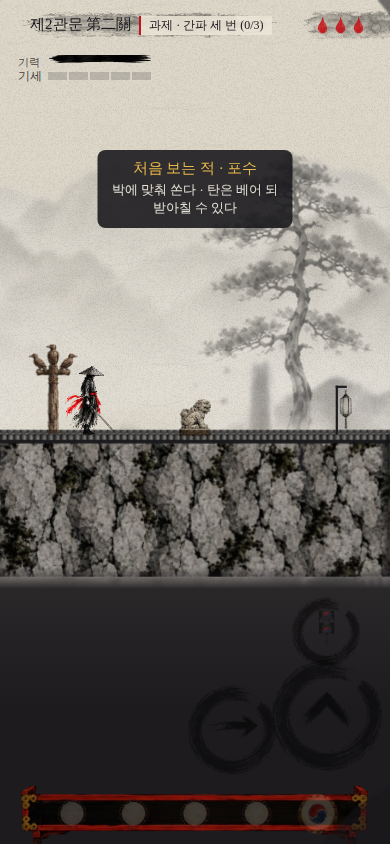
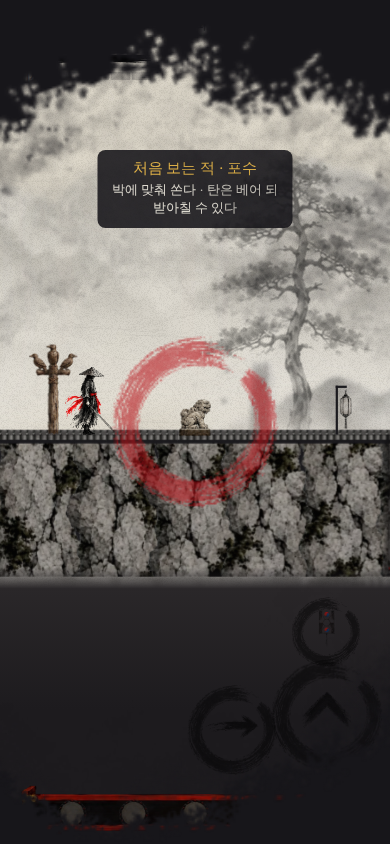
Painted scene change (dry-brush strokes, red 원상, ink blots soaking away), red 원상 for first-seen foes, ink-wash name labels, brush rings for hub spots, 절명 read in Korean
Claude-Session: https://claude.ai/code/session_01Rc1cVb1vkCQfdutHoe7fgf

diff --git a/js/game.js b/js/game.js
@@ -3382,7 +3382,11 @@ function render(rdt) {
   if (SPR.perkfx) for (const c of clones) { ctx.globalAlpha = .45 + .15 * Math.sin(performance.now() / 40); const cf = CF("clone"); if (cf && SPR[cf[0]]) { drawSprite(cf[0], cf[1], c.x, c.y, HERO_H * 1.15 / SPR[cf[0]].f[cf[1]].h, c.face < 0, .5, false, 1); ctx.globalAlpha = 1; continue; } drawSprite("perkfx", PF.clone, c.x, c.y, kOf("hero3", H3.idle, HERO_H * 1.08) * 1.1, c.face < 0, .5, false, 1); ctx.globalAlpha = 1; }
   drawVfx(pal, true, vw);   // effects that belong behind the body (the 납도 ink at the feet)
   drawPet(pal); drawAmmo();
-  for (const e of enemies) if (e.alive && e.introUntil > songPos) { const k = (e.introUntil - songPos) / 2.5, r = Math.max(e.w, e.h) * .75 + 6 + Math.sin(songPos * 9) * 2; ctx.globalAlpha = Math.min(1, k * 2); ctx.strokeStyle = SEAL; ctx.lineWidth = 2; ctx.setLineDash([5, 4]); ctx.beginPath(); ctx.arc(e.x + e.w / 2, e.y + e.h / 2, r, 0, 6.283); ctx.stroke(); ctx.setLineDash([]); ctx.globalAlpha = 1; }   // 처음 보는 적: a dashed red ring
+  { const rr = redRing(); for (const e of enemies) if (e.alive && e.introUntil > songPos) { const k = (e.introUntil - songPos) / 2.5, r = Math.max(e.w, e.h) * .8 + 8, cx = e.x + e.w / 2, cy = e.y + e.h / 2, draw = Math.min(1, (1 - k) * 4);   // 처음 보는 적: a red 원상 brushed round it
+    ctx.globalAlpha = Math.min(1, k * 2) * .9;
+    if (rr) { ctx.save(); ctx.translate(cx, cy); ctx.rotate(songPos * .6); ctx.beginPath(); ctx.moveTo(0, 0); ctx.arc(0, 0, r * 1.2, -1.8, -1.8 + 6.283 * draw); ctx.closePath(); ctx.clip(); ctx.drawImage(rr, -r, -r, r * 2, r * 2); ctx.restore(); }
+    else { ctx.strokeStyle = SEAL; ctx.lineWidth = 2; ctx.beginPath(); ctx.arc(cx, cy, r, 0, 6.283); ctx.stroke(); }
+    ctx.globalAlpha = 1; } }
   if (P && (state === "play" || state === "pause" || state === "result" || state === "dead")) drawPlayer(pal);
   drawHubLabels(pal);   // the names sit above every figure
   for (const p of parts) { // round drops of ink, stretched a little along their flight — never square specks
@@ -3468,6 +3472,7 @@ function render(rdt) {
     if (sf) { // 絶命 in red brush, written down the screen; lands large and settles
       const k = Math.min(1, deathT / .12), sw = Math.min(W * .22, 180) * (1.2 - .2 * k), sh = sw * sf.h / sf.w;
       ctx.drawImage(SPR.roguea.img, sf.x, sf.y, sf.w, sf.h, W / 2 - sw / 2, H / 2 - sh / 2 - 6, sw, sh);
+      ctx.font = `400 17px "Song Myung", serif`; ctx.fillText("절 명", W / 2, H / 2 + sh / 2 + 10);   // read aloud under the brush
     } else { ctx.font = `400 ${Math.min(72, W / 8)}px "Song Myung", serif`; ctx.fillText("절명", W / 2, H / 2 - 12); }
     if (mode !== "tutorial") { ctx.font = `600 13px ${BODY_FONT}`; ctx.fillText(run.breath > 0 ? `남은 숨 ${run.breath}` : "숨이 다했다", W / 2, H - 92); }
     ctx.textAlign = "left"; ctx.globalAlpha = 1;
@@ -4644,56 +4649,54 @@ function drawHubLabels(pal) { // the names of the stations, painted on small boa
       if (near) { ctx.fillStyle = "#9a1424"; ctx.beginPath(); ctx.moveTo(x - 6, by + h / 2 + 4); ctx.lineTo(x + 6, by + h / 2 + 4); ctx.lineTo(x, by + h / 2 + 11); ctx.fill(); } } }
   for (const st of LV.stations || []) { const x = st.tx * T + 16, y = (st.ty || 12) * T - Math.max(st.h, 44) - 10, near = hubNear && hubNear.st === st; if (LV.hub) continue;
     ctx.font = `400 ${near ? 15 : 12}px "Song Myung", serif`; const w = ctx.measureText(st.name).width + 14;
-    ctx.fillStyle = near ? "rgba(195,22,28,.92)" : "rgba(23,22,26,.72)"; ctx.fillRect(x - w / 2, y - 10, w, 20); ctx.fillStyle = "#f3ede0"; ctx.fillText(st.name, x, y + 1); }
+    const wf = SPR.ui && SPR.ui.f[5]; if (wf) { for (let i = 0; i < 2; i++) ctx.drawImage(SPR.ui.img, wf.x, wf.y, wf.w, wf.h, x - w / 2 - 12 + i * 3, y - 15 + i, w + 24, 30); ctx.fillStyle = near ? SEAL : "#17161a"; }   // the name on a wash of ink, red when you can speak
+    else { ctx.fillStyle = near ? "rgba(195,22,28,.92)" : "rgba(23,22,26,.72)"; ctx.fillRect(x - w / 2, y - 10, w, 20); ctx.fillStyle = "#f3ede0"; }
+    ctx.fillText(st.name, x, y + 1); }
   const dk = hubDeco(); if (LV.hub) for (let k = 0; k < HUB_SLOTS.length; k++) if (!dk.slots[k]) { const x = HUB_SLOTS[k].tx * T + 16, y = HUB_SLOTS[k].ty * T - 4, near = hubNear && hubNear.slot === k;
-    ctx.strokeStyle = near ? "rgba(195,22,28,.8)" : "rgba(23,22,26,.3)"; ctx.setLineDash([4, 4]); ctx.lineWidth = 1.5; ctx.beginPath(); ctx.ellipse(x, y, 18, 5, 0, 0, 7); ctx.stroke(); ctx.setLineDash([]); }
+    const rf = SPR.ui && SPR.ui.f[0], rr = near && redRing(); if (rf) { ctx.globalAlpha = near ? .9 : .3; if (rr) ctx.drawImage(rr, x - 20, y - 6, 40, 12); else ctx.drawImage(SPR.ui.img, rf.x, rf.y, rf.w, rf.h, x - 20, y - 6, 40, 12); ctx.globalAlpha = 1; }   // an empty spot: a flattened brush circle on the ground
+    else { ctx.strokeStyle = near ? "rgba(195,22,28,.8)" : "rgba(23,22,26,.3)"; ctx.lineWidth = 1.5; ctx.beginPath(); ctx.ellipse(x, y, 18, 5, 0, 0, 7); ctx.stroke(); } }
 }
 // ---------- screens ----------
-// 먹 번짐 (scene change): a loaded brush sweeps across and covers the page, a drop of 주홍 blooms in the wet ink,
-// then the ink soaks away from the middle with a ragged edge and leaves a few drips behind
-let wipeRun = null;
-function inkWipe(kind = "") {
+// 먹 번짐 (scene change), painted with the game's own brushes: four dry-brush strokes lay ink across the page,
+// a red 원상 is drawn in one turn of the wrist, then the ink soaks away from the middle in ragged blots and the circle fades last
+let wipeRun = null, wipeRed = null;
+function redRing() { const ui = SPR.ui; if (!ui) return null; if (!wipeRed) { const f = ui.f[0], o = document.createElement("canvas"); o.width = f.w; o.height = f.h; const x = o.getContext("2d"); x.drawImage(ui.img, f.x, f.y, f.w, f.h, 0, 0, f.w, f.h); x.globalCompositeOperation = "source-in"; x.fillStyle = "#b8141b"; x.fillRect(0, 0, f.w, f.h); wipeRed = o; } return wipeRed; }   // the 원상 in 주홍
+function inkWipe() {
   const cvW = $("wipe"); if (!cvW || !cvW.getContext) return;
-  const calm = settings.calm || matchMedia("(prefers-reduced-motion: reduce)").matches;
-  const k = .5, w = Math.ceil(innerWidth * k), h = Math.ceil(innerHeight * k);   // half resolution: ink edges are soft anyway
+  const ui = SPR.ui, calm = settings.calm || matchMedia("(prefers-reduced-motion: reduce)").matches || !ui;
+  const k = .6, w = Math.ceil(innerWidth * k), h = Math.ceil(innerHeight * k);
   cvW.width = w; cvW.height = h; const c = cvW.getContext("2d");
-  const rnd = mulberry((Math.random() * 1e9) >>> 0), J = Array.from({ length: 160 }, () => rnd());
-  const dir = rnd() < .5 ? 1 : -1, red = kind !== "plain";
-  const D = calm ? .35 : 1.1, T_COVER = .3, T_OPEN = .52, diag = Math.hypot(w, h);
-  const spl = Array.from({ length: 26 }, (_, i) => ({ a: J[i] * 6.28, d: .3 + J[i + 30] * .5, r: 1 + J[i + 60] * 5 }));
-  if (wipeRun) cancelAnimationFrame(wipeRun.raf);
-  const me = {};
+  redRing();
+  const R = Math.random, J = Array.from({ length: 40 }, () => R());
+  const D = calm ? .4 : 1.2, diag = Math.hypot(w, h), cx = w / 2, cy = h / 2;
+  const clamp = x => Math.min(1, Math.max(0, x)), easeO = x => 1 - Math.pow(1 - clamp(x), 3), easeIO = x => { x = clamp(x); return x < .5 ? 4 * x * x * x : 1 - Math.pow(-2 * x + 2, 3) / 2; };
+  const strokes = [0, 1, 2, 3].map(j => ({ y: h * (j + .5) / 4 + (J[j] - .5) * h * .06, rot: (J[j + 4] - .5) * .09, dir: j % 2 ? -1 : 1, t0: j * .055, th: h / 4 * 2.3 }));
+  const blots = Array.from({ length: 6 }, (_, i) => ({ x: w * (.15 + J[i + 10] * .7), y: h * (.15 + J[i + 16] * .7), t0: .7 + J[i + 22] * .12, r: diag * (.18 + J[i + 28] * .14), rot: J[i + 34] * 6.28 }));
+  const me = {}; if (wipeRun) cancelAnimationFrame(wipeRun.raf); wipeRun = me;
   const t0 = performance.now(); cvW.style.visibility = "visible";
-  const ink = "#17161a", easeO = x => 1 - Math.pow(1 - Math.min(1, Math.max(0, x)), 3), easeIO = x => { x = Math.min(1, Math.max(0, x)); return x < .5 ? 4 * x * x * x : 1 - Math.pow(-2 * x + 2, 3) / 2; };
-  const blob = (x, y, r, n, seed, amp) => { c.beginPath(); for (let i = 0; i <= n; i++) { const a = i / n * 6.283, q = 1 + amp * (Math.sin(a * 3 + seed) * .5 + Math.sin(a * 7 + seed * 2.3) * .3 + (J[(i + (seed * 13 | 0)) % 160] - .5) * .4); const px = x + Math.cos(a) * r * q, py = y + Math.sin(a) * r * q; i ? c.lineTo(px, py) : c.moveTo(px, py); } c.closePath(); };
+  const sprite = (i, x, y, sw, sh, rot) => { const f = ui.f[i]; c.save(); c.translate(x, y); c.rotate(rot); c.drawImage(ui.img, f.x, f.y, f.w, f.h, -sw / 2, -sh / 2, sw, sh); c.restore(); };
   const frame = now => {
-    const t = window.__wipeT ?? (now - t0) / 1000; c.globalCompositeOperation = "source-over"; c.clearRect(0, 0, w, h);
     if (wipeRun !== me) return;
+    const t = window.__wipeT ?? (now - t0) / 1000; c.globalCompositeOperation = "source-over"; c.globalAlpha = 1; c.clearRect(0, 0, w, h);
     if (t >= D) { cvW.style.visibility = "hidden"; wipeRun = null; return; }
-    if (calm) { c.globalAlpha = Math.sin(Math.PI * t / D); c.fillStyle = ink; c.fillRect(0, 0, w, h); c.globalAlpha = 1; me.raf = requestAnimationFrame(frame); return; }
-    // 1. the stroke: stamps along a gently bowed diagonal, wide enough at full press to hide the whole page
-    const p = easeO(t / T_COVER), R = diag * .62, N = 34;
-    c.fillStyle = ink;
-    for (let i = 0; i < N * p; i++) { const u = i / N, x = dir > 0 ? -R * .6 + u * (w + R * 1.2) : w + R * .6 - u * (w + R * 1.2), y = h * (.5 + .18 * Math.sin(u * 3.1 + J[3] * 3)) ;
-      const press = Math.min(1, u * 5) * (1 - .1 * Math.sin(u * 9)); blob(x, y, R * press * (.3 + .7 * easeO(t / T_COVER)), 28, i * .7, .12); c.fill(); }
-    // dry-brush bristles trailing off the stroke's edges
-    if (p < 1) { c.strokeStyle = ink; c.lineCap = "round"; for (let b = 0; b < 22; b++) { const off = (J[b + 80] - .5) * h * 1.3, len = (w + R) * p, a = .25 + J[b + 100] * .5; c.globalAlpha = a; c.lineWidth = 1 + J[b + 120] * 4; c.beginPath(); const x0 = dir > 0 ? -20 : w + 20; c.moveTo(x0, h / 2 + off); c.lineTo(x0 + dir * len * (.7 + J[b + 40] * .3), h / 2 + off * (1 + .1 * J[b])); c.stroke(); } c.globalAlpha = 1; }
-    // splashes flung from the press
-    for (const s of spl) { const g = easeO((t - .05) / .3); if (g <= 0) continue; c.globalAlpha = 1 - Math.max(0, (t - .8) / .25); c.beginPath(); c.arc(w / 2 + Math.cos(s.a) * diag * s.d * g, h / 2 + Math.sin(s.a) * diag * s.d * .7 * g, s.r * (1 + g), 0, 6.283); c.fill(); }
-    c.globalAlpha = 1;
-    // 2. 주홍: a drop of red blooms in the wet ink and spreads its feathered rim
-    if (red && t > .22) { const q = easeO((t - .22) / .35), fade = 1 - Math.max(0, (t - .62) / .3), r = Math.min(w, h) * (.05 + .07 * q);
-      const g = c.createRadialGradient(w / 2, h / 2, 0, w / 2, h / 2, r * 1.6); g.addColorStop(0, `rgba(205,30,34,${.95 * fade})`); g.addColorStop(.55, `rgba(178,22,28,${.85 * fade})`); g.addColorStop(1, "rgba(120,10,16,0)");
-      c.fillStyle = g; blob(w / 2, h / 2, r * 1.5, 40, 4.2, .18); c.fill(); }
-    // 3. the ink soaks away from the middle: a ragged hole that widens, with a soft wet rim
-    if (t > T_OPEN) { const q = easeIO((t - T_OPEN) / (D - T_OPEN)), r = q * diag * .62; c.globalCompositeOperation = "destination-out"; c.fillStyle = "#000";
-      c.globalAlpha = .45; blob(w / 2, h / 2, r * 1.12 + 6, 48, 1.7, .22); c.fill();
-      c.globalAlpha = 1; blob(w / 2, h / 2, r, 48, 1.7, .22); c.fill();
-      for (let i = 0; i < 9; i++) { const a = J[i + 140] * 6.28, rr = r * (.85 + J[i + 10] * .3); c.beginPath(); c.arc(w / 2 + Math.cos(a) * rr, h / 2 + Math.sin(a) * rr * .8, r * .22 * J[i + 20], 0, 6.283); c.fill(); }
+    if (calm) { c.globalAlpha = Math.sin(Math.PI * t / D) * .92; c.fillStyle = "#17161a"; c.fillRect(0, 0, w, h); me.raf = requestAnimationFrame(frame); return; }
+    // 1. the strokes: each one painted along its length, the brush moving left or right
+    for (const st of strokes) { const q = easeO((t - st.t0) / .2); if (q <= 0) continue; const len = w * 1.55;
+      c.save(); c.translate(w / 2 - st.dir * len * (1 - q), st.y); c.rotate(st.rot); c.scale(st.dir, 1);   // dragged in tip first, so its ragged ends are the only edges
+      const f = ui.f[2]; c.drawImage(ui.img, f.x, f.y, f.w, f.h, -len / 2, -st.th / 2, len, st.th); c.restore(); }
+    const fill = easeO((t - .26) / .14); if (fill > 0) { c.globalAlpha = fill; c.fillStyle = "#17161a"; c.fillRect(0, 0, w, h); c.globalAlpha = 1; }   // the dry gaps fill as the ink spreads
+    // 2. the ink soaks away: painted blots punched out of the page, the middle one first
+    if (t > .62) { c.globalCompositeOperation = "destination-out";
+      const q = easeIO((t - .62) / (D - .62 - .05)), s = q * diag * 1.5; if (s > 1) sprite(1, cx, cy, s, s * 1.03, J[38] * 6.28);
+      for (const b of blots) { const g = easeO((t - b.t0) / .35); if (g > 0) sprite(1, b.x, b.y, b.r * 2 * g, b.r * 2 * g, b.rot); }
       c.globalCompositeOperation = "source-over"; }
+    // 3. 원상: one red turn of the brush over the dark, lingering a moment over the new place
+    if (wipeRed && t > .3) { const q = easeO((t - .3) / .3), fade = 1 - clamp((t - .78) / .3), sz = Math.min(w, h) * .46;
+      c.save(); c.globalAlpha = fade; c.beginPath(); c.moveTo(cx, cy); c.arc(cx, cy, sz, -Math.PI / 2 - .25, -Math.PI / 2 - .25 + Math.PI * 2 * q); c.closePath(); c.clip();
+      c.drawImage(wipeRed, cx - sz / 2, cy - sz / 2 * 1.02, sz, sz * 1.02); c.restore(); }
     me.raf = requestAnimationFrame(frame);
   };
-  wipeRun = me; me.raf = requestAnimationFrame(frame);
+  me.raf = requestAnimationFrame(frame);
 }
 function showScreen(id) {
   if (id !== null && typeof tipT !== "undefined") { tipT = 0; $("tip").classList.remove("on"); $("tip").hidden = true; }   // a play tip never hangs over a menu
@@ -4829,7 +4832,7 @@ $("bInstall").addEventListener("click", async () => { if (!installEvt) return; i
 const standalone = matchMedia("(display-mode: standalone)").matches || matchMedia("(display-mode: fullscreen)").matches || navigator.standalone;
 
 
-if (location.hash === "#debug" && /^(localhost|127\.0\.0\.1)$/.test(location.hostname)) window.__dbg = { get missing() { return ALL_SHEETS.filter(n => !LAZY_SHEETS.has(n) && !SPR[n]).concat(BASE_IMGS.filter(k => !IMG[k])); }, tp(tx, ty) { P.x = tx * T + 7; P.y = (ty + 1) * T - 30; P.vx = P.vy = 0; }, get state() { return state; }, get P() { return P; }, get LV() { return LV; }, get state2() { return state; }, get SC() { return LV.scenery; }, get E() { return enemies; }, get run() { return run; }, set hs(v) { hitstop = v; }, kill(e) { killEnemy(e); }, hurt(e, s, k) { hurtEnemy(e, s, k); }, die(k, d) { die(k, d); }, banner(a, b, c) { banner(a, b === "red" ? SEAL : JJOK, c); }, chungo() { chungo(); }, clear() { madangClear(); }, hubAct() { hubAct(); }, get hub() { return { hubOn, hubNear }; }, get songPos() { return songPos; }, get FLASH() { return FLASH; }, get hold() { return bulletHold; }, get bolts() { return bolts; }, get rings() { return rings; }, get B() { return bullets; }, get beams() { return beams; }, flashing: e => isFlashing(e), wipe: k => inkWipe(k), enlighten: f => enlighten(f), syncCombos: () => syncCombos(), has: id => has(id), get FL() { flashSync(); return FLASH; } };
+if (location.hash === "#debug" && /^(localhost|127\.0\.0\.1)$/.test(location.hostname)) window.__dbg = { get missing() { return ALL_SHEETS.filter(n => !LAZY_SHEETS.has(n) && !SPR[n]).concat(BASE_IMGS.filter(k => !IMG[k])); }, tp(tx, ty) { P.x = tx * T + 7; P.y = (ty + 1) * T - 30; P.vx = P.vy = 0; }, get state() { return state; }, get P() { return P; }, get LV() { return LV; }, get state2() { return state; }, get SC() { return LV.scenery; }, get E() { return enemies; }, get run() { return run; }, set hs(v) { hitstop = v; }, kill(e) { killEnemy(e); }, hurt(e, s, k) { hurtEnemy(e, s, k); }, die(k, d) { die(k, d); }, banner(a, b, c) { banner(a, b === "red" ? SEAL : JJOK, c); }, chungo() { chungo(); }, clear() { madangClear(); }, hubAct() { hubAct(); }, get hub() { return { hubOn, hubNear }; }, get songPos() { return songPos; }, get FLASH() { return FLASH; }, get hold() { return bulletHold; }, get bolts() { return bolts; }, get rings() { return rings; }, get B() { return bullets; }, get beams() { return beams; }, flashing: e => isFlashing(e), wipe: () => inkWipe(), enlighten: f => enlighten(f), syncCombos: () => syncCombos(), has: id => has(id), get FL() { flashSync(); return FLASH; } };
 window.addEventListener("pointerdown", () => Music.unlock(), { once: true, capture: true });   // first tap anywhere starts the sound
 resize();
 toMenu();

diff --git a/index.html b/index.html
@@ -11,14 +11,14 @@
 <meta name="apple-mobile-web-app-status-bar-style" content="black-translucent">
 <meta name="apple-mobile-web-app-title" content="천고">
 <link rel="manifest" href="manifest.webmanifest">
-<link rel="icon" href="icons/icon-192.png?v=10031000">
-<link rel="apple-touch-icon" href="icons/apple-touch-icon.png?v=10031000">
+<link rel="icon" href="icons/icon-192.png?v=10031100">
+<link rel="apple-touch-icon" href="icons/apple-touch-icon.png?v=10031100">
 <link rel="preconnect" href="https://fonts.googleapis.com">
 <link rel="preconnect" href="https://fonts.gstatic.com" crossorigin>
 <link rel="stylesheet" href="https://fonts.googleapis.com/css2?family=Song+Myung&display=swap">
 <!-- hanja: Song Myung has none, so Nanum Myeongjo is fetched for just the characters the game shows -->
 <link rel="stylesheet" href="https://fonts.googleapis.com/css2?family=Nanum+Myeongjo&display=swap&text=%E4%B8%80%E4%B8%89%E4%B8%8A%E4%B8%8B%E4%B8%8D%E4%B8%99%E4%B8%9E%E4%B8%AD%E4%B8%B8%E4%B8%B9%E4%B8%BB%E4%B9%99%E4%B9%9D%E4%BA%82%E4%BA%8C%E4%BA%94%E4%BA%95%E4%BA%AD%E4%BF%83%E4%BF%AE%E5%81%87%E5%81%9C%E5%83%A7%E5%85%89%E5%85%A5%E5%85%A9%E5%85%AD%E5%85%B5%E5%85%B7%E5%86%A4%E5%86%B6%E5%86%B7%E5%87%8C%E5%88%80%E5%88%83%E5%88%86%E5%88%87%E5%88%91%E5%88%9D%E5%88%BA%E5%89%9B%E5%8A%8D%E5%8A%9B%E5%8A%9F%E5%8B%95%E5%8B%9D%E5%8B%A2%E5%8D%83%E5%8D%B4%E5%8D%B7%E5%8E%84%E5%8F%8D%E5%8F%A3%E5%8F%AF%E5%90%8D%E5%90%B8%E5%91%B5%E5%91%BD%E5%9B%9B%E5%9B%9E%E5%9C%B0%E5%9D%90%E5%A0%82%E5%A1%94%E5%A1%9E%E5%A2%83%E5%A2%93%E5%A2%9C%E5%A3%81%E5%A3%87%E5%A3%9E%E5%A4%A7%E5%A4%A9%E5%A4%B7%E5%A5%A7%E5%A5%AA%E5%A5%B3%E5%A6%99%E5%AD%97%E5%AD%A4%E5%AE%88%E5%AE%97%E5%AF%82%E5%AF%9E%E5%B0%84%E5%B0%87%E5%B0%8E%E5%B0%BE%E5%B1%88%E5%B1%B1%E5%B6%BA%E5%B7%AB%E5%B7%AE%E5%B8%B3%E5%B8%B6%E5%B9%95%E5%B9%B3%E5%B9%BB%E5%BA%AB%E5%BC%93%E5%BC%95%E5%BD%88%E5%BD%B1%E5%BE%8B%E5%BE%90%E5%BE%91%E5%BF%83%E5%BF%85%E5%BF%B5%E6%80%92%E6%80%A5%E6%81%AF%E6%87%89%E6%88%90%E6%88%B0%E6%88%BF%E6%89%80%E6%89%87%E6%89%8B%E6%89%93%E6%8B%8D%E6%8B%94%E6%8C%81%E6%8D%AE%E6%8E%A5%E6%8E%A8%E6%8F%9B%E6%93%8A%E6%94%B6%E6%95%A3%E6%96%A4%E6%96%AC%E6%96%B7%E6%97%8B%E6%98%87%E6%98%8E%E6%98%9F%E6%9A%B4%E6%9B%89%E6%9B%B8%E6%9C%88%E6%9C%9B%E6%9C%AC%E6%9D%BF%E6%9E%97%E6%A1%B6%E6%A2%85%E6%A2%AF%E6%A5%AD%E6%A7%8C%E6%A7%8D%E6%A8%93%E6%A9%9F%E6%AD%A2%E6%AD%A3%E6%AD%A5%E6%AD%A6%E6%AD%B8%E6%AD%BB%E6%AE%98%E6%AE%BA%E6%AE%BF%E6%B0%A3%E6%B0%B4%E6%B1%BA%E6%B3%89%E6%B3%95%E6%B4%BE%E6%B5%81%E6%B7%B1%E6%B7%B5%E6%B8%A1%E6%BA%96%E6%BB%85%E6%BB%91%E6%BB%BF%E6%BD%9B%E6%BF%83%E6%BF%A4%E7%81%AB%E7%82%8E%E7%82%B8%E7%83%8F%E7%84%A1%E7%84%B0%E7%85%99%E7%85%A7%E7%86%9F%E7%86%B1%E7%87%92%E7%87%95%E7%88%86%E7%89%8C%E7%8B%82%E7%8B%90%E7%8B%99%E7%8D%A8%E7%8D%AC%E7%8E%84%E7%8E%8B%E7%92%B0%E7%94%95%E7%94%9F%E7%94%B0%E7%94%B2%E7%96%BE%E7%99%BB%E7%99%BC%E7%99%BD%E7%9B%9F%E7%9B%A1%E7%9B%B8%E7%9C%8B%E7%9C%BC%E7%9D%80%E7%9E%AC%E7%9F%AD%E7%9F%B3%E7%A0%B2%E7%A0%B4%E7%A2%91%E7%A5%9E%E7%A5%A0%E7%A7%98%E7%A9%BA%E7%AA%81%E7%AA%9F%E7%AB%B9%E7%AC%88%E7%AC%A6%E7%AC%AC%E7%AD%92%E7%AE%A1%E7%AE%AD%E7%B4%85%E7%B5%82%E7%B5%90%E7%B5%B2%E7%B5%B6%E7%B6%AD%E7%B6%B2%E7%B6%B5%E7%B7%A3%E7%B7%B4%E7%B8%9B%E7%B8%AE%E7%B9%A9%E7%BA%8C%E7%BD%A1%E7%BD%AE%E7%BE%85%E7%BE%A9%E7%BF%94%E7%BF%BC%E8%81%B2%E8%83%8E%E8%84%9A%E8%87%BA%E8%88%9E%E8%8A%B1%E8%90%AC%E8%90%BD%E8%93%84%E8%97%A5%E8%99%8E%E8%99%95%E8%99%9B%E8%99%9F%E8%9E%AD%E8%A1%80%E8%A1%8C%E8%A1%93%E8%A1%9D%E8%A1%A3%E8%A2%96%E8%A3%82%E8%A5%B2%E8%A6%81%E8%A7%92%E8%A7%A3%E8%AA%93%E8%AA%98%E8%AA%BF%E8%AD%B7%E8%B0%B7%E8%B1%B8%E8%B3%AD%E8%B5%A4%E8%B5%B0%E8%B6%8A%E8%B6%B3%E8%B7%9D%E8%B7%A1%E8%B7%AF%E8%B7%B3%E8%B8%8F%E8%BA%8D%E8%BA%AB%E8%BB%8A%E8%BB%8D%E8%BC%95%E8%BC%AA%E8%BF%8E%E8%BF%91%E8%BF%94%E8%BF%BD%E9%80%86%E9%80%90%E9%80%9F%E9%80%A3%E9%81%8E%E9%81%A0%E9%82%84%E9%87%8C%E9%87%8D%E9%87%91%E9%88%B4%E9%8A%80%E9%8A%83%E9%8D%8A%E9%8D%9B%E9%8E%96%E9%8E%AD%E9%8F%A1%E9%90%B5%E9%95%B7%E9%96%80%E9%96%83%E9%96%93%E9%96%A3%E9%97%9C%E9%98%B2%E9%99%8D%E9%99%A3%E9%99%A4%E9%9A%AA%E9%9B%99%E9%9B%A2%E9%9B%A8%E9%9B%B2%E9%9B%B6%E9%9B%B7%E9%9B%BB%E9%9C%86%E9%9C%87%E9%9C%A7%E9%9C%B9%E9%9D%82%E9%9D%88%E9%9D%91%E9%9D%9C%E9%9D%A2%E9%A2%A8%E9%A3%9B%E9%A3%9F%E9%A6%99%E9%A6%AC%E9%A8%B0%E9%AA%A8%E9%AC%BC%E9%AD%82%E9%AD%9A%E9%B3%A5%E9%B3%B6%E9%B5%B2%E9%B6%B4%E9%B7%B9%E9%BB%91%E9%BC%93%E9%BD%8A%E9%BE%8D">
-<link rel="stylesheet" href="style.css?v=10031000">
+<link rel="stylesheet" href="style.css?v=10031100">
 </head>
 <body>
   <div id="loading"><div class="ld-in"><b class="ld-t">천고</b><div class="ld-bar"><i id="ldBar"></i></div><span id="ldTxt">먹을 가는 중</span></div></div>
@@ -172,11 +172,11 @@
   (ld.querySelector(".ld-in") || ld).appendChild(b); }
   window.addEventListener("error", function () { setTimeout(rescue, 1500); }); setTimeout(rescue, 25000); })();
 </script>
-<script src="js/tuning.js?v=10031000"></script>
-<script src="js/content.js?v=10031000"></script>
-<script src="js/data.js?v=10031000"></script>
-<script src="js/music.js?v=10031000"></script>
-<script src="js/game.js?v=10031000"></script>
+<script src="js/tuning.js?v=10031100"></script>
+<script src="js/content.js?v=10031100"></script>
+<script src="js/data.js?v=10031100"></script>
+<script src="js/music.js?v=10031100"></script>
+<script src="js/game.js?v=10031100"></script>
 <script>
 if ("serviceWorker" in navigator && (location.protocol === "https:" || location.hostname === "localhost")) {
   window.addEventListener("load", () => navigator.serviceWorker.register("sw.js", { updateViaCache: "none" }).then(r => r.update()).catch(() => {}));

diff --git a/_review/r25_fx.js b/_review/r25_fx.js
@@ -1,0 +1,15 @@
+const { open } = require('./lib');
+(async () => { const { b, p, errs } = await open({ vp: { width: 1000, height: 462 } });
+  await p.waitForTimeout(1500);
+  const shot = async n => p.screenshot({ path: `shots/fx_${n}.png` });
+  // walk to the first foe
+  const near = await p.evaluate(() => { const P = __dbg.P, e = __dbg.E.filter(e => e.alive).sort((a, b) => Math.abs(a.x - P.x) - Math.abs(b.x - P.x))[0]; P.x = e.x - 50; P.y = e.y + e.h - P.h; P.face = 1; return e.type; });
+  await p.waitForTimeout(200);
+  const kd = c => p.evaluate(c => { dispatchEvent(new KeyboardEvent('keydown', { code: c })); dispatchEvent(new KeyboardEvent('keyup', { code: c })); }, c);
+  await kd('KeyJ'); await p.waitForTimeout(60); await shot('1_slash'); await p.waitForTimeout(90); await shot('2_slash_b');
+  await p.evaluate(() => { const P = __dbg.P, e = __dbg.E.filter(e => e.alive).sort((a, b) => Math.abs(a.x - P.x) - Math.abs(b.x - P.x))[0]; __dbg.kill(e); }); await p.waitForTimeout(80); await shot('3_kill'); await p.waitForTimeout(250); await shot('4_kill_b');
+  await p.evaluate(() => { window.__forceStrike = true; const P = __dbg.P, e = __dbg.E.filter(e => e.alive).sort((a, b) => Math.abs(a.x - P.x) - Math.abs(b.x - P.x))[0]; P.x = e.x - 50; P.y = e.y + e.h - P.h; });
+  await kd('KeyJ'); await p.waitForTimeout(70); await shot('5_strike'); await p.waitForTimeout(200); await shot('6_strike_b'); await p.evaluate(() => { window.__forceStrike = false; });
+  await kd('KeyK'); await p.waitForTimeout(80); await shot('7_dash');
+  await p.evaluate(() => __dbg.die('hit', 1)); await p.waitForTimeout(100); await shot('8_hurt'); await p.waitForTimeout(400); await shot('9_hurt_b');
+  console.log(near, errs); await b.close(); })();

diff --git a/_review/r26_fx2.js b/_review/r26_fx2.js
@@ -1,0 +1,5 @@
+const { open, RUN } = require('./lib');
+(async () => { let o = await open({ vp: { width: 1000, height: 462 } }); await o.p.waitForTimeout(900); await o.p.screenshot({ path: 'shots/fx2_intro.png' });
+  await o.p.evaluate(() => __dbg.die('hit', 9)); await o.p.waitForTimeout(250); await o.p.screenshot({ path: 'shots/fx2_death.png' }); const e1 = o.errs; await o.b.close();
+  o = await open({ vp: { width: 1000, height: 462 }, run: RUN('hwando', { node: 'rest', m: 2 }) }); await o.p.evaluate(() => __dbg.tp(17, 10)); await o.p.waitForTimeout(1500); await o.p.screenshot({ path: 'shots/fx2_label.png' }); const e2 = o.errs; await o.b.close();
+  console.log(e1, e2); })();

diff --git a/_review/r23_wipe.js b/_review/r23_wipe.js
@@ -1,5 +1,5 @@
 const { open } = require('./lib');
-const TS = [.05, .12, .2, .3, .45, .6, .75, .9];
+const TS = [.06, .14, .24, .4, .55, .72, .9, 1.08];
 (async () => { for (const vp of [{ width: 844, height: 390 }, { width: 390, height: 844 }]) { const { b, p, errs } = await open({ vp, mobile: true });
   await p.waitForTimeout(1200);
   for (const t of TS) { await p.evaluate(t => { window.__wipeT = t; __dbg.wipe(); }, t); await p.waitForTimeout(120); await p.screenshot({ path: `shots/wipe_${vp.width}_${t}.png` }); }

diff --git a/sw.js b/sw.js
@@ -1,6 +1,6 @@
 // 천고 service worker: network-first for the game files (so updates land on the next launch),
 // cache fallback for offline play, cache-first for Google Fonts.
-const CACHE = "chungo-v134";
+const CACHE = "chungo-v135";
 const ASSETS = "chungo-assets";   // pictures and sound: kept across versions, served at once, refreshed in the background
 const CORE = ["./", "index.html", "manifest.webmanifest",
   "icons/icon-192.png", "icons/icon-512.png", "icons/apple-touch-icon.png"];

diff --git a/_review/strip.py b/_review/strip.py
@@ -1,5 +1,5 @@
 from PIL import Image
-TS=[.05,.12,.2,.3,.45,.6,.75,.9]
+TS=[.06,.14,.24,.4,.55,.72,.9,1.08]
 for w in (844,390):
   ims=[Image.open(f'shots/wipe_{w}_{t}.png') for t in TS]; sc=.4 if w==844 else .3
   ims=[i.resize((int(i.width*sc),int(i.height*sc))) for i in ims]
